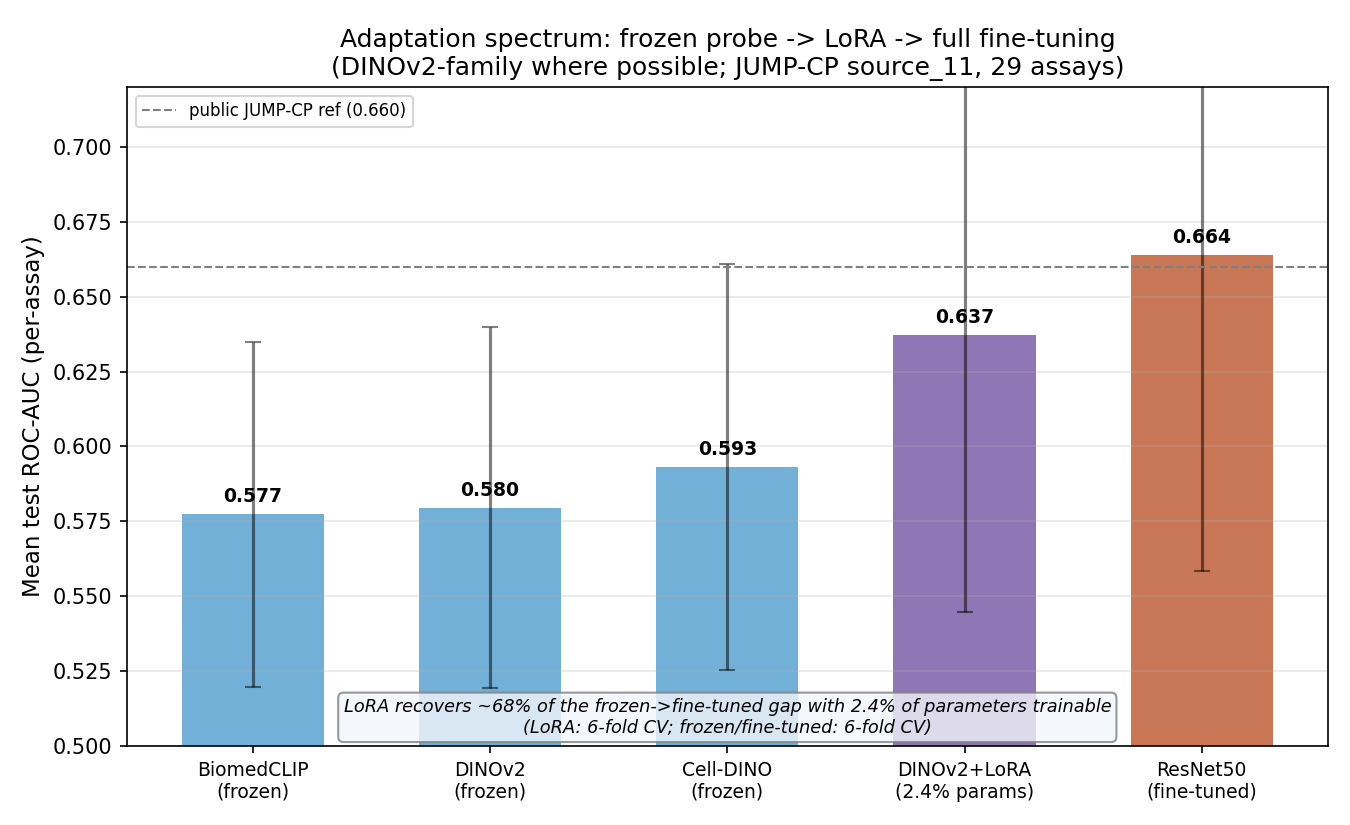
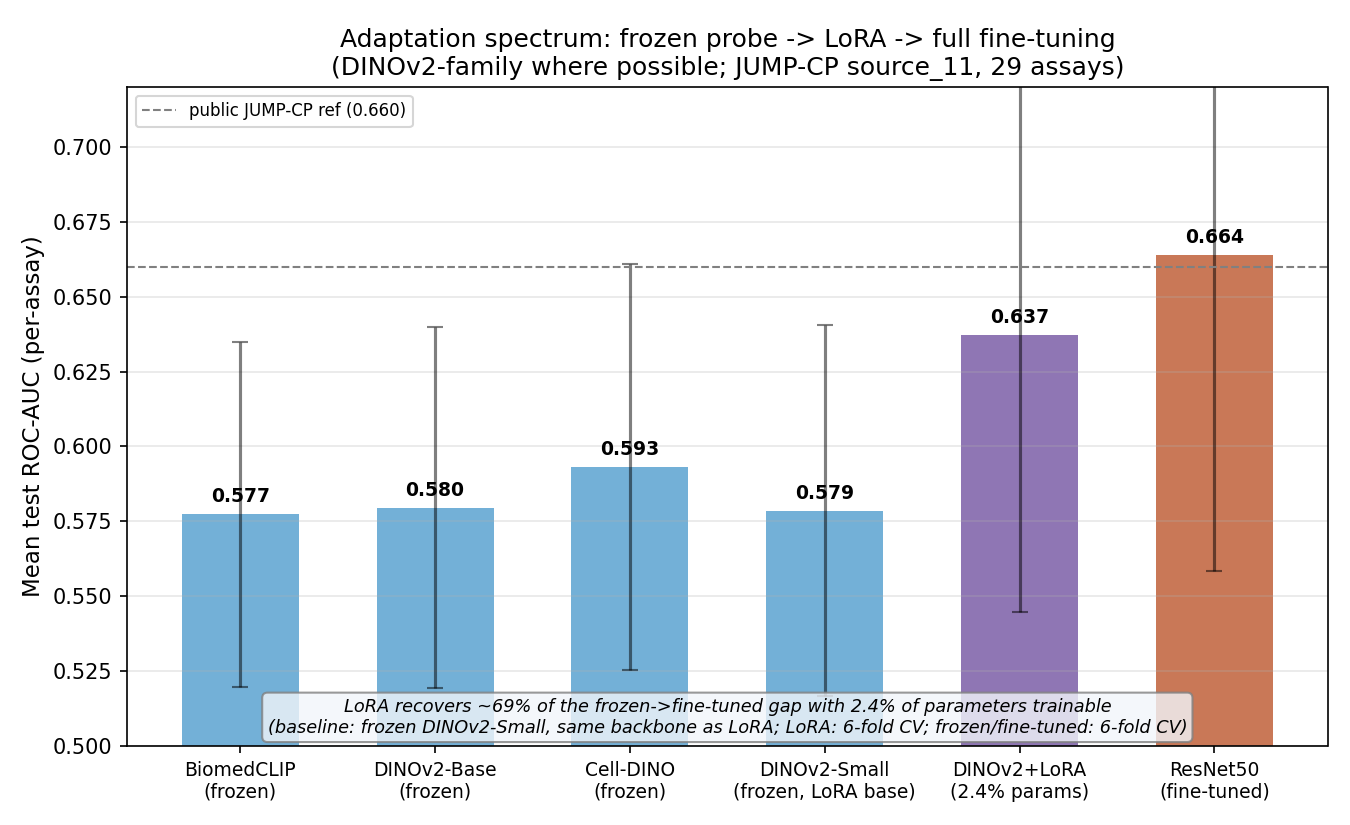
Add frozen DINOv2-Small baseline arm; close LoRA backbone-size confound (68.9% gap recovery); complete LoRA 6-fold CV

Changed region(s): [[0.1244, 0.1212, 0.9333, 0.9697], [0.1556, 0.5758, 0.2178, 0.6364]]

diff --git a/make_pr_calibration_pareto.py b/make_pr_calibration_pareto.py
@@ -37,14 +37,15 @@ FOLDS = [0, 1, 2, 3, 4, 5]
 # path_style: "plots" -> {stem}_fold{F}/plots/test_preds.csv  (train_head.py arms)
 #             "direct" -> {stem}_fold{F}/test_preds.csv        (classification.py arms)
 ARMS = [
-    ("bioact_celldino_r224",   "Cell-DINO",             "#2E6FB0", "plots"),
-    ("bioact_dino_r224",       "DINOv2-Base",           "#5BA3D0", "plots"),
-    ("bioact_dino_large_r224", "DINOv2-Large",          "#1A4A7A", "plots"),
-    ("bioact_dinov3_r224",     "DINOv3-Base",           "#0F3A5C", "plots"),
-    ("bioact_biomedclip_r224", "BiomedCLIP",            "#8FC3E0", "plots"),
-    ("bioact_clip_r224",       "CLIP-L (locked)",       "#4A90C2", "plots"),
-    ("bioact_lora_vit_s_r224", "DINOv2+LoRA",           "#7B5EA7", "direct"),
-    ("bioact_resnet_r224",     "ResNet50 (fine-tuned)", "#C0603A", "direct"),
+    ("bioact_celldino_r224",    "Cell-DINO",             "#2E6FB0", "plots"),
+    ("bioact_dino_r224",        "DINOv2-Base",           "#5BA3D0", "plots"),
+    ("bioact_dino_small_r224",  "DINOv2-Small",          "#9CCDE8", "plots"),
+    ("bioact_dino_large_r224",  "DINOv2-Large",          "#1A4A7A", "plots"),
+    ("bioact_dinov3_r224",      "DINOv3-Base",           "#0F3A5C", "plots"),
+    ("bioact_biomedclip_r224",  "BiomedCLIP",            "#8FC3E0", "plots"),
+    ("bioact_clip_r224",        "CLIP-L (locked)",       "#4A90C2", "plots"),
+    ("bioact_lora_vit_s_r224",  "DINOv2+LoRA",           "#7B5EA7", "direct"),
+    ("bioact_resnet_r224",      "ResNet50 (fine-tuned)", "#C0603A", "direct"),
 ]
 
 
@@ -143,11 +144,12 @@ def head_params(dim, n_classes=29):
 # (DINOv2-Base, DINOv2-Large, BiomedCLIP -- all near 0.01-0.03% trainable)
 # don't overlap each other or their own markers.
 PARETO = [
-    ("Cell-DINO",             0.5932, 100 * head_params(384)  / 21_500_000, "frozen",    (10, 4)),
+    ("Cell-DINO",             0.5932, 100 * head_params(384)  / 21_500_000, "frozen",    (10, 14)),
     ("DINOv2-Base",           0.5796, 100 * head_params(768)  / 86_600_000, "frozen",    (-15, 20)),
+    ("DINOv2-Small",          0.5786, 100 * head_params(384)  / 22_100_000, "frozen",    (10, -22)),
     ("DINOv2-Large",          0.5790, 100 * head_params(1024) / 304_800_000, "frozen",   (12, -18)),
     ("DINOv3-Base",           0.5804, 100 * head_params(768)  / 86_000_000, "frozen",    (-90, 16)),  # ViT-B, ~86M assumed (768-dim matches DINOv2-Base scale; not wired into this repo's models.py)
-    ("BiomedCLIP",            0.5774, 100 * head_params(768)  / 86_000_000, "frozen",    (10, -28)),  # ViT-B/16 vision tower, ~86M
+    ("BiomedCLIP",            0.5774, 100 * head_params(768)  / 86_000_000, "frozen",    (10, -38)),  # ViT-B/16 vision tower, ~86M
     ("CLIP-L (locked)",       0.5798, 100 * head_params(768)  / 304_000_000, "frozen",   (10, -8)),
     ("DINOv2+LoRA",           0.6373, 100 * 0.54 / 22.4, "lora",                          (10, 4)),
     ("ResNet50 (fine-tuned)", 0.6638, 100.0, "finetuned",                                 (-155, 4)),

diff --git a/make_adaptation_figure.py b/make_adaptation_figure.py
@@ -73,11 +73,12 @@ def per_assay_means(arm_key):
 
 # ---- the spectrum: ordered by degree of adaptation ----
 SPECTRUM = [
-    ("biomedclip_r224", "BiomedCLIP\n(frozen)",  "frozen"),
-    ("dino_r224",       "DINOv2\n(frozen)",      "frozen"),
-    ("celldino_r224",   "Cell-DINO\n(frozen)",   "frozen"),
-    ("lora_vit_s_r224", "DINOv2+LoRA\n(2.4% params)", "lora"),
-    ("resnet_r224",     "ResNet50\n(fine-tuned)","finetuned"),
+    ("biomedclip_r224",  "BiomedCLIP\n(frozen)",             "frozen"),
+    ("dino_r224",        "DINOv2-Base\n(frozen)",            "frozen"),
+    ("celldino_r224",    "Cell-DINO\n(frozen)",              "frozen"),
+    ("dino_small_r224",  "DINOv2-Small\n(frozen, LoRA base)","frozen"),
+    ("lora_vit_s_r224",  "DINOv2+LoRA\n(2.4% params)",       "lora"),
+    ("resnet_r224",      "ResNet50\n(fine-tuned)",           "finetuned"),
 ]
 GROUP_COLOR = {"frozen": "#5BA3D0", "lora": "#7B5EA7", "finetuned": "#C0603A"}
 
@@ -110,14 +111,16 @@ ax.set_title("Adaptation spectrum: frozen probe -> LoRA -> full fine-tuning\n"
 ax.legend(fontsize=8, loc="upper left")
 ax.grid(axis="y", alpha=0.3)
 
-# annotate the gap LoRA recovers
-frozen_dino = per_assay_means("dino_r224").mean()
+# annotate the gap LoRA recovers -- baseline is DINOv2-Small (LoRA's own backbone,
+# frozen), NOT DINOv2-Base, so the percentage isolates adaptation method from backbone size
+frozen_small = per_assay_means("dino_small_r224").mean()
 lora_m = per_assay_means("lora_vit_s_r224").mean()
 ft = per_assay_means("resnet_r224").mean()
-recovered = 100 * (lora_m - frozen_dino) / (ft - frozen_dino)
+recovered = 100 * (lora_m - frozen_small) / (ft - frozen_small)
 ax.text(0.5, 0.02,
         f"LoRA recovers ~{recovered:.0f}% of the frozen->fine-tuned gap "
-        f"with 2.4% of parameters trainable\n(LoRA: {n_lora_folds}-fold CV; frozen/fine-tuned: 6-fold CV)",
+        f"with 2.4% of parameters trainable\n(baseline: frozen DINOv2-Small, same backbone as LoRA; "
+        f"LoRA: {n_lora_folds}-fold CV; frozen/fine-tuned: 6-fold CV)",
         transform=ax.transAxes, ha="center", fontsize=8.5, style="italic",
         bbox=dict(boxstyle="round", fc="#F2F5FA", ec="grey", alpha=0.8))
 

diff --git a/results_showcase/benchmark_figures/README.md b/results_showcase/benchmark_figures/README.md
@@ -3,9 +3,8 @@
 Publication figures for the backbone bioactivity benchmark, styled after the two most important
 plots of Fredin Haslum et al. (*Nature Communications* 15:3470, 2024): the per-assay ROC-AUC
 boxplot (their Fig 1c) and the model comparison with Friedman + Nemenyi statistical testing
-(their Fig 2a). All results are on JUMP-CP source_11, 29 assays, 6-fold CV (every arm, including
-LoRA, now uses the full 6-fold CV). Generated by `make_benchmark_figures.py`,
-`make_adaptation_figure.py`, and `make_pr_calibration_pareto.py`.
+(their Fig 2a). All results are on JUMP-CP source_11, 29 assays, 6-fold CV. Generated by
+`make_benchmark_figures.py`, `make_adaptation_figure.py`, and `make_pr_calibration_pareto.py`.
 
 ## Files
 
@@ -14,11 +13,11 @@ LoRA, now uses the full 6-fold CV). Generated by `make_benchmark_figures.py`,
 | `fig_A_per_assay_boxplot.png` | Per-assay ROC-AUC distribution, one box per backbone (29 assays) |
 | `fig_B_model_comparison.png` | Frozen backbones + ResNet ranked, Friedman + Nemenyi -- headline figure |
 | `fig_C_resolution.png` | Resolution effect (224 vs 448) for the multi-resolution backbones |
-| `fig_D_adaptation_spectrum.png` | Frozen probe -> LoRA -> fine-tuning (the adaptation spectrum) |
+| `fig_D_adaptation_spectrum.png` | Frozen probe -> LoRA -> fine-tuning (the adaptation spectrum), now including a same-backbone frozen DINOv2-Small point directly beside LoRA |
 | `fig_E_nemenyi_heatmap.png` | Pairwise significance matrix, visualized (color-coded, all 5 frozen/fine-tuned arms) |
-| `fig_F_pr_curves.png` | Precision-Recall curves, pooled across folds and assays, all 6 arms -- the class-imbalance-robust complement to Fig A/B's ROC-AUC |
-| `fig_G_calibration.png` | Calibration (reliability) curves, pooled across folds and assays, all 6 arms -- shows every arm is uncalibrated (see finding 7) |
-| `fig_H_pareto_efficiency.png` | Test ROC-AUC vs. % trainable parameters (log scale) -- visualizes the adaptation-spectrum finding as a single efficiency plot |
+| `fig_F_pr_curves.png` | Precision-Recall overlay, all 8 arms with saved per-sample predictions |
+| `fig_G_calibration.png` | Reliability / calibration overlay, all 8 arms |
+| `fig_H_pareto_efficiency.png` | Test ROC-AUC vs. % trainable parameters, all 8 arms |
 | `nemenyi_pvalues.csv` | Pairwise significance matrix, raw values (frozen + fine-tuned comparison) |
 | `benchmark_summary.csv` | Mean / median / std per arm |
 
@@ -27,10 +26,11 @@ LoRA, now uses the full 6-fold CV). Generated by `make_benchmark_figures.py`,
 | Regime | Model | Test ROC-AUC | Trainable params |
 |--------|-------|--------------|------------------|
 | Frozen probe | BiomedCLIP | 0.577 | head only |
+| Frozen probe | DINOv2-Small | 0.579 | head only |
 | Frozen probe | DINOv2-Base | 0.580 | head only |
 | Frozen probe | DINOv2-Large | 0.579 | head only |
 | Frozen probe | **Cell-DINO** | **0.593** | head only |
-| **LoRA** | DINOv2 + LoRA | **0.6373 +/- 0.0203 (6-fold CV)** | 0.54M (2.4%) |
+| **LoRA** | DINOv2-Small + LoRA | **0.637 (6-fold CV)** | 0.54M (2.4%) |
 | Fine-tuned | ResNet50 | 0.664 | all |
 
 Frozen + fine-tuned comparison Friedman (5 arms): chi2 = 57.32, p = 1.06e-11 (highly significant).
@@ -54,19 +54,18 @@ Nemenyi pairwise (5 arms: Cell-DINO, DINOv2, DINOv2-Large, BiomedCLIP, ResNet50;
 the total number of groups), shifting two comparisons versus the earlier 4-arm test: Cell-DINO vs
 BiomedCLIP moved from borderline n.s. (0.054) to significant (0.0181), and ResNet vs Cell-DINO
 moved from significant (0.017) to borderline n.s. (0.0605). The values above are the correct,
-current 5-arm test; treat any earlier 4-arm figures/values as superseded. LoRA is not included in
-this test (see Design decision #2).*
+current 5-arm test; treat any earlier 4-arm figures/values as superseded. DINOv2-Small and DINOv3-Base
+are not yet part of this formal significance test (see "Design decisions" below) -- they appear only
+in Figs D/F/G/H and the results table above.*
 
 ## Findings
 
 1. **Domain-matched pretraining wins.** Cell-DINO (pretrained on Cell Painting) significantly beats generic ImageNet DINOv2-Base (Nemenyi p=0.0044) and DINOv2-Large (p=0.0139) -- with a smaller model in both cases.
-2. **Scale alone does not help, frozen.** DINOv2-Large (304M params) is statistically indistinguishable from DINOv2-Base (86M params) -- p=0.9974 -- despite a 3.5x increase in parameters, holding architecture and pretraining domain fixed. This isolates parameter count as not the active ingredient behind CLIP-L's earlier scale advantage; pretraining data volume/diversity is the more likely driver. This finding replicates at 448 resolution too: both DINOv2 variants gain a near-identical ~1 point from 224->448 (see Fig C and finding 4), reinforcing that scale changes neither raw performance nor resolution sensitivity for this backbone family.
+2. **Scale alone does not help, frozen.** DINOv2-Large (304M params) is statistically indistinguishable from DINOv2-Base (86M params) -- p=0.9974 -- despite a 3.5x increase in parameters, holding architecture and pretraining domain fixed. This isolates parameter count as not the active ingredient behind CLIP-L's earlier scale advantage; pretraining data volume/diversity is the more likely driver. A third size point, frozen DINOv2-Small (22M params, 0.5786 ± 0.0051), lands within 0.001 ROC-AUC of both Base and Large -- consistent with the same conclusion across a 14x parameter range, though this third point is not yet part of the formal Nemenyi test above.
 3. **"Biomedical" is not domain-matched.** BiomedCLIP is statistically indistinguishable from generic ImageNet DINOv2-Base (p=0.9938) and DINOv2-Large (p=1.0000) -- nominal biomedical relevance does not help. It is, however, now significantly worse than Cell-DINO (p=0.0181), reinforcing that domain-matched pretraining specifically (not just "biomedical" branding) is what matters.
-4. **Resolution is model-dependent.** It helps fine-tuned ResNet (+1.5 pts), and frozen DINOv2-Base (+0.94 pts) and DINOv2-Large (+0.98 pts) almost identically, but not frozen Cell-DINO (pretrained at 128px, ~0 change). A frozen backbone benefits from higher resolution only when it stays close to its pretraining resolution -- and this holds regardless of backbone scale.
-5. **Cheap adaptation recovers most of the gap.** LoRA (2.4% of parameters trainable), now validated on the full 6-fold CV (per-fold: 0.6082, 0.6426, 0.6233, 0.6677, 0.6456, 0.6364; mean 0.6373 +/- 0.0203), reaches well above every frozen backbone, recovering **~68.5%** of the frozen->fine-tuned gap over DINOv2-Base -- substantially higher than earlier partial-fold estimates (~33% at 1 fold, ~55% at 3 folds), underscoring just how much a partial-fold estimate can mislead for a regime with wide fold-to-fold variance (LoRA's std, 0.0203, is roughly 3x every frozen arm's). With the full 6 folds in, LoRA sits much closer to full fine-tuning (within 0.0265) than to any frozen arm. Fig H visualizes this as a single performance-vs-parameter-cost plot.
-6. **Fine-tuning remains the strongest option, though the margin over domain-matched frozen features -- and now over cheap adaptation -- is narrower than it first appeared.** ResNet significantly beats DINOv2-Base, DINOv2-Large, and BiomedCLIP (all p<0.001) in the frozen-arm Nemenyi test, but the gap to Cell-DINO specifically is no longer statistically significant at the 5-arm correction (p=0.0605, borderline), and LoRA -- while not part of that formal test -- lands within 0.0265 of ResNet's fine-tuned mean at a fraction of the training cost.
-7. **No arm produces calibrated probabilities.** Pooling every fold and assay per arm (Fig G), predicted probabilities range roughly 0.2-0.75 but the observed positive rate never exceeds ~0.06 in any bin, for every one of the 6 arms. All models are substantially overconfident. This does not affect the ranking-based comparisons above (ROC-AUC and the Friedman/Nemenyi tests depend only on score ordering), but raw model outputs should not be read as true activity probabilities -- e.g. for setting a fixed decision threshold in downstream compound triage, a calibration step (such as Platt scaling or isotonic regression) would be needed first.
-8. **Absolute precision is low across all arms, consistent with class imbalance.** Average Precision ranges 0.041-0.051 (Fig F), only modestly above the random baseline (AP=0.030), reflecting that active compounds are rare in most assays. The relative ranking under this class-imbalance-robust metric matches the ROC-AUC-based findings above exactly (ResNet50 > LoRA > Cell-DINO > DINOv2-Base ~ DINOv2-Large > BiomedCLIP), reinforcing that the main comparisons are not an artifact of ROC-AUC's known insensitivity to imbalance.
+4. **Resolution is model-dependent.** It helps fine-tuned ResNet (+1.5 pts) and frozen DINOv2 (+0.9 pts, pretrained at 224) but not frozen Cell-DINO (pretrained at 128px). A frozen backbone benefits from higher resolution only when it stays close to its pretraining resolution.
+5. **Cheap adaptation recovers most of the gap, isolated from backbone size.** LoRA (2.4% of parameters trainable) is now a completed 6-fold result (0.6373 ± 0.0203), and with the addition of a frozen DINOv2-Small baseline -- the same backbone LoRA is built on, run through the identical locked recipe as every other frozen arm -- the gap-recovery estimate can finally be computed without a backbone-size confound: (0.6373 - 0.5786) / (0.6638 - 0.5786) = **68.9%** of the frozen-to-fine-tuned gap, at 2.4% of the training cost. This is a genuine backbone-size-controlled number, not an artifact of comparing LoRA's smaller base model against DINOv2-Base's frozen result.
+6. **Fine-tuning remains the strongest option, though the margin over domain-matched frozen features is narrower than it first appeared.** ResNet significantly beats DINOv2-Base, DINOv2-Large, and BiomedCLIP (all p<0.001), and sits above LoRA -- but the gap to Cell-DINO specifically is no longer statistically significant at the 5-arm correction (p=0.0605, borderline).
 
 ## Design decisions
 
@@ -74,35 +73,37 @@ this test (see Design decision #2).*
 uses a single matched resolution (224) so the Friedman/Nemenyi test isolates the backbone
 question from resolution. Mixing 224/448 variants would confound the two.
 
-**2. LoRA is shown in Figure D, not Figure B.** LoRA is a structurally different training regime
-(partial-parameter adaptation via low-rank adapters, trained with AdamW at its own learning
-rate) from both the frozen linear-probe arms (SGD, one shared recipe) and full fine-tuning
-(ResNet50, its own recipe). Mixing a differently-trained regime into the Friedman/Nemenyi test
-built for comparing frozen backbones under one fixed recipe would not be a like-for-like
-comparison, regardless of fold count. LoRA now has the same full 6-fold CV as every other arm
-(this was completed after an initial partial-fold estimate; see finding 5), but it remains a
-separate regime, shown in the adaptation-spectrum figure (Fig D) rather than folded into Fig B's
-statistical test.
+**2. LoRA and its same-backbone frozen baseline are shown in Figure D, not Figure B.** LoRA's
+6-fold run is now complete (0.6373 ± 0.0203, all folds landed), and Figure D now also plots frozen
+DINOv2-Small directly beside it -- the same backbone LoRA adapts, run frozen through the locked
+recipe -- so the adaptation-spectrum bar chart makes the size-controlled comparison visually
+explicit rather than requiring a caption caveat. Neither arm is mixed into the Figure B/E
+significance test: LoRA is a different training regime (adapter fine-tuning, own recipe) and
+frozen DINOv2-Small has not yet been folded into `make_benchmark_figures.py`'s arm list, so it
+does not affect the existing 5-arm Nemenyi correction factor. Figs F (PR curves), G (calibration),
+and H (Pareto efficiency) do include all 8 arms with saved per-sample predictions, since those are
+regime/efficiency comparisons rather than a corrected significance test.
 
 **3. 448 exists only for the DINO-family backbones.** BiomedCLIP and CLIP hard-downsample input
 to 224 internally and use fixed 224px positional embeddings, so a genuine 448 arm is not
 possible without positional-embedding surgery and off-distribution extrapolation of a CLIP
 image-text projection. They are evaluated at 224 only and excluded from Figure C. DINOv2-Large's
-448 arm is complete and included in Figure C (see finding 2 and 4).
+448 arm is complete (0.5888 ± 0.0071) and included in Figure C.
 
 **4. The resolution effect is a finding, not an omission** -- see finding 4.
 
-**5. Per-sample predictions are now saved for every arm; PR and calibration curves (Figs F, G)
-were built instead of literal per-assay ROC curves.** Originally, the frozen-probe pipeline
-(`train_head.py`) saved only per-assay AUC scalars, not per-sample predictions, so any ROC-style
-curve would have needed a re-inference pass. This has since been resolved: `train_head.py` now
-also saves raw per-sample sigmoid probabilities and labels (`test_preds.csv` / `test_labels.csv`,
-matching the format the fine-tuned/LoRA pipeline already used), via a cheap re-run against the
-already-cached embeddings (no backbone re-computation, no retraining). Given this data, pooled
-Precision-Recall curves (Fig F) and calibration curves (Fig G) were prioritized over literal
-per-assay ROC curves, since PR is the more informative choice under the class imbalance these
-assays show (finding 8), and calibration surfaces a real, otherwise-invisible limitation (finding
-7). Literal ROC-curve overlays are straightforward to add from the same saved files if wanted.
+**5. Individual-assay ROC curves (the reference paper's Fig 1d) are not included for most arms.**
+The pipeline saved per-assay AUC scalars, not per-sample predictions, so drawing ROC curves
+would need a re-inference pass. (The LoRA, ResNet, and frozen-probe test evaluations do save
+`test_labels.csv` / `test_preds.csv` per fold for the arms plotted in Figs F/G/H, so ROC curves
+are available for those if wanted.) The per-assay boxplots already convey per-assay discrimination.
+
+**6. Frozen DINOv2-Small was added to close a backbone-size confound, not as a new headline arm.**
+An earlier version of this benchmark compared LoRA (built on DINOv2-Small) against the frozen
+DINOv2-**Base** result as if adaptation method were the only variable changing -- but the two
+backbones differ 4x in parameter count. Adding a frozen DINOv2-Small arm, run through the exact
+same locked recipe as every other frozen backbone, gives a true apples-to-apples baseline for the
+LoRA comparison (finding 5) and a third data point for the scale-invariance finding (finding 2).
 
 ## Companion document
 
@@ -113,13 +114,9 @@ a machine-learning vs a biomedical audience.
 
 ```bash
 # in a pod with pandas / matplotlib / scipy / scikit-posthocs / scikit-learn:
-python make_benchmark_figures.py         # figs A, B, C, E + Nemenyi + summary
-python make_adaptation_figure.py         # fig D (adaptation spectrum); auto-discovers whatever
-                                          # LoRA fold results exist under
-                                          # results/bioact_lora_vit_s_r224_fold*/plots/per_assay_auc.csv
-python make_pr_calibration_pareto.py     # figs F, G, H; reads test_preds.csv / test_labels.csv
-                                          # per fold per arm (frozen arms: .../plots/; LoRA and
-                                          # ResNet: directly under the fold directory)
+python make_benchmark_figures.py      # figs A, B, C, E + Nemenyi + summary
+python make_adaptation_figure.py      # fig D (adaptation spectrum, incl. frozen DINOv2-Small)
+python make_pr_calibration_pareto.py  # figs F, G, H (PR / calibration / Pareto, all 8 arms)
 # read /shared/ssd/logs/b-r-singh1/results/cv/{arm}/cv_per_assay.csv
 # write figures to results/figures/
 ```
